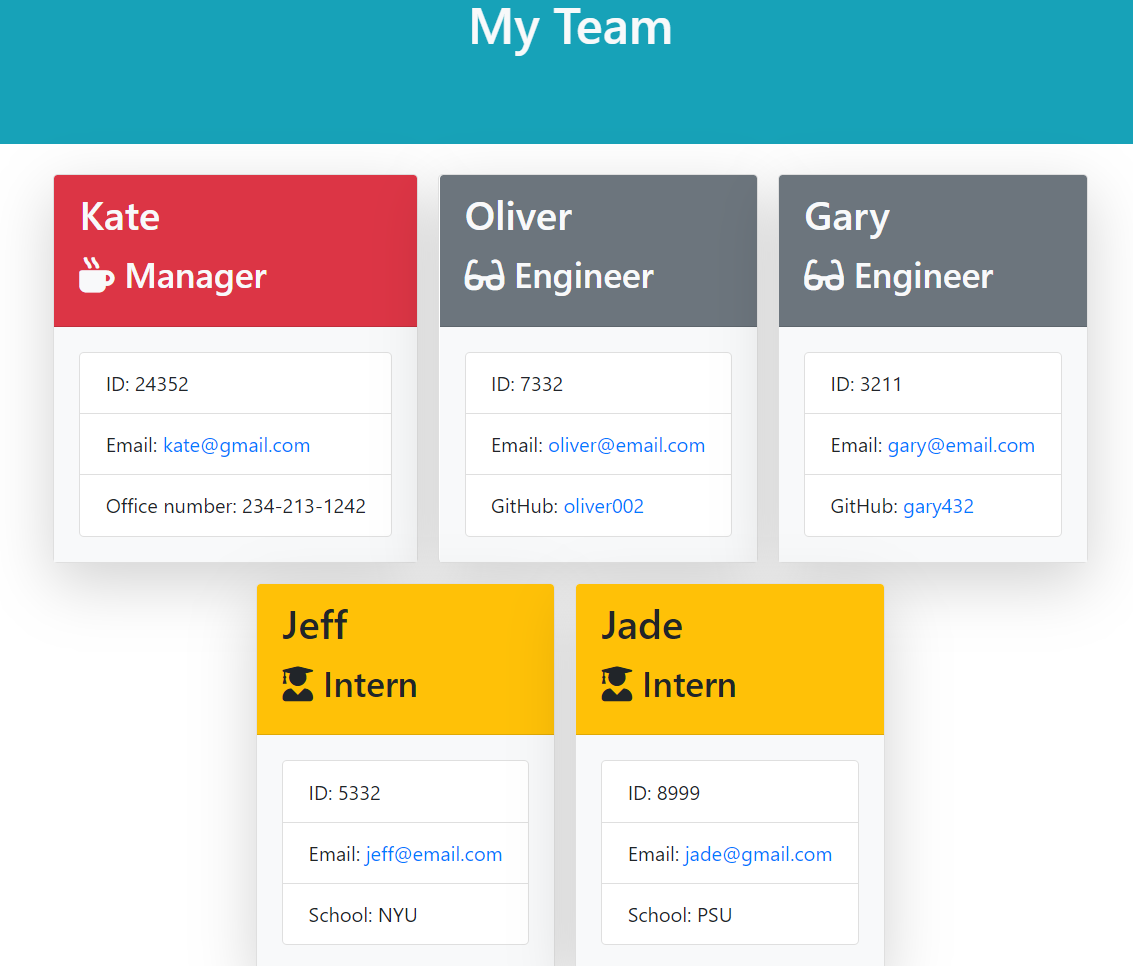
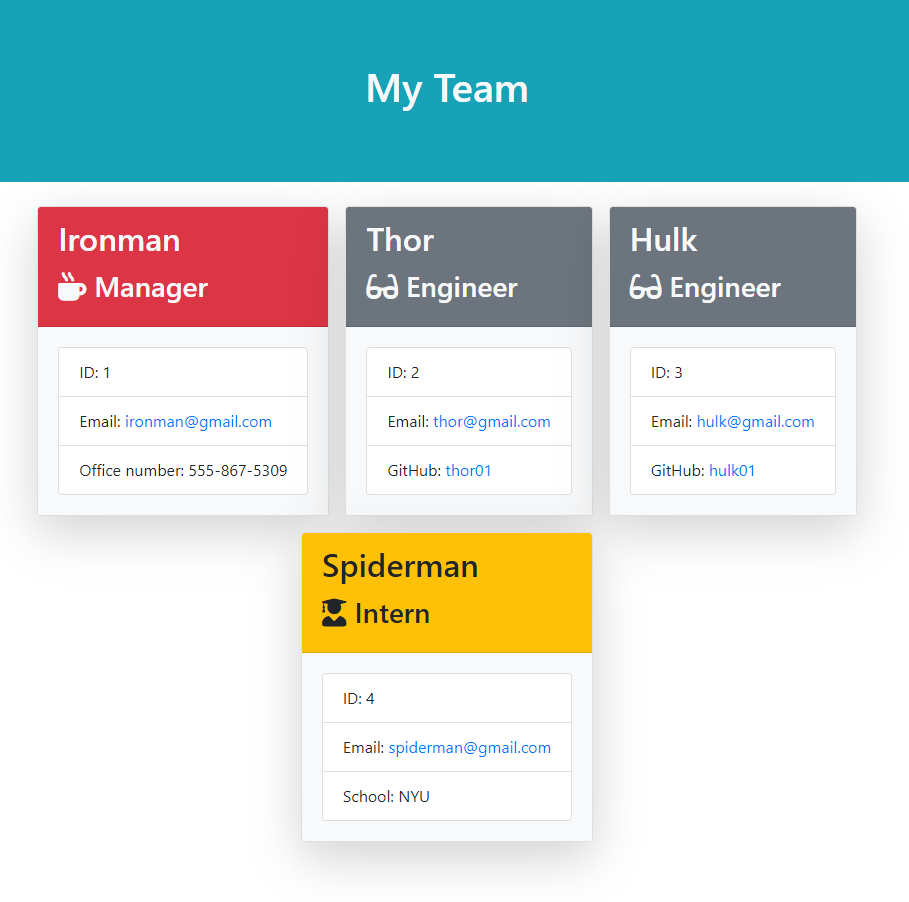
Updated readme file

diff --git a/output/team.html b/output/team.html
@@ -24,66 +24,53 @@
         <div class="row row-cols-lg-4 team-area justify-content-center">
             <div class="card employee-card shadow-lg m-2">
     <div class="card-header bg-danger text-light">
-        <h2 class="card-title">Kate</h2>
+        <h2 class="card-title">Ironman</h2>
         <h3 class="card-title"><i class="fas fa-mug-hot mr-2"></i>Manager</h3>
     </div>
     <div class="card-body bg-light">
         <ul class="list-group">
-            <li class="list-group-item">ID: 24352</li>
-            <li class="list-group-item">Email: <a href="mailto:kate@gmail.com">kate@gmail.com</a></li>
-            <li class="list-group-item">Office number: 234-213-1242</li>
+            <li class="list-group-item">ID: 1</li>
+            <li class="list-group-item">Email: <a href="mailto:ironman@gmail.com">ironman@gmail.com</a></li>
+            <li class="list-group-item">Office number: 555-867-5309</li>
         </ul>
     </div>
 </div>
 <div class="card employee-card shadow-lg m-2">
     <div class="card-header bg-secondary text-light">
-        <h2 class="card-title">Oliver</h2>
+        <h2 class="card-title">Thor</h2>
         <h3 class="card-title"><i class="fas fa-glasses mr-2"></i>Engineer</h3>
     </div>
     <div class="card-body bg-light">
         <ul class="list-group">
-            <li class="list-group-item">ID: 7332</li>
-            <li class="list-group-item">Email: <a href="mailto:oliver@email.com">oliver@email.com</a></li>
-            <li class="list-group-item">GitHub: <a href="https://github.com/oliver002" target="_blank" rel="noopener noreferrer">oliver002</a></li>
+            <li class="list-group-item">ID: 2</li>
+            <li class="list-group-item">Email: <a href="mailto:thor@gmail.com">thor@gmail.com</a></li>
+            <li class="list-group-item">GitHub: <a href="https://github.com/thor01" target="_blank" rel="noopener noreferrer">thor01</a></li>
         </ul>
     </div>
 </div>
 <div class="card employee-card shadow-lg m-2">
     <div class="card-header bg-secondary text-light">
-        <h2 class="card-title">Gary</h2>
+        <h2 class="card-title">Hulk</h2>
         <h3 class="card-title"><i class="fas fa-glasses mr-2"></i>Engineer</h3>
     </div>
     <div class="card-body bg-light">
         <ul class="list-group">
-            <li class="list-group-item">ID: 3211</li>
-            <li class="list-group-item">Email: <a href="mailto:gary@email.com">gary@email.com</a></li>
-            <li class="list-group-item">GitHub: <a href="https://github.com/gary432" target="_blank" rel="noopener noreferrer">gary432</a></li>
+            <li class="list-group-item">ID: 3</li>
+            <li class="list-group-item">Email: <a href="mailto:hulk@gmail.com">hulk@gmail.com</a></li>
+            <li class="list-group-item">GitHub: <a href="https://github.com/hulk01" target="_blank" rel="noopener noreferrer">hulk01</a></li>
         </ul>
     </div>
 </div>
 <div class="card employee-card shadow-lg m-2">
     <div class="card-header bg-warning">
-        <h2 class="card-title">Jeff</h2>
+        <h2 class="card-title">Spiderman</h2>
         <h3 class="card-title"><i class="fas fa-user-graduate mr-2"></i>Intern</h3>
     </div>
     <div class="card-body bg-light">
         <ul class="list-group">
-            <li class="list-group-item">ID: 5332</li>
-            <li class="list-group-item">Email: <a href="mailto:jeff@email.com">jeff@email.com</a></li>
+            <li class="list-group-item">ID: 4</li>
+            <li class="list-group-item">Email: <a href="mailto:spiderman@gmail.com">spiderman@gmail.com</a></li>
             <li class="list-group-item">School: NYU</li>
-        </ul>
-    </div>
-</div>
-<div class="card employee-card shadow-lg m-2">
-    <div class="card-header bg-warning">
-        <h2 class="card-title">Jade</h2>
-        <h3 class="card-title"><i class="fas fa-user-graduate mr-2"></i>Intern</h3>
-    </div>
-    <div class="card-body bg-light">
-        <ul class="list-group">
-            <li class="list-group-item">ID: 8999</li>
-            <li class="list-group-item">Email: <a href="mailto:jade@gmail.com">jade@gmail.com</a></li>
-            <li class="list-group-item">School: PSU</li>
         </ul>
     </div>
 </div>

diff --git a/README.md b/README.md
@@ -15,6 +15,8 @@ When all the questions are complete, and the user choses the "Done" option, a "t
 * [License](#license)
 * [Contributing](#contributing)
 * [Tests](#tests)
+* [Video Walkthru](#video-walkthru)
+* [screenshots](#screenshots)
 * [Questions](#questions)
         
 ## Installation
@@ -41,6 +43,16 @@ npm run engineer-test
 npm run intern-test
 npm run manager-test
 ```
+
+## Video Walkthru
+<iframe src="https://drive.google.com/file/d/1iRpIc0ELu6Et-Pk3JLIfEcu5uaiaAGx2/preview" width="640" height="480"></iframe>
+
+## Screenshots
+CLI:
+<img src="assets/screenshots/bash.PNG">
+
+Webpage:
+<img src="assets/screenshots/html.PNG">
 
 ## Questions
 If you have any questions about this repository, open an issue or contact me directly at megtej@gmail.com. You can find more of my work at [mslee001](https://github.com/mslee001).
